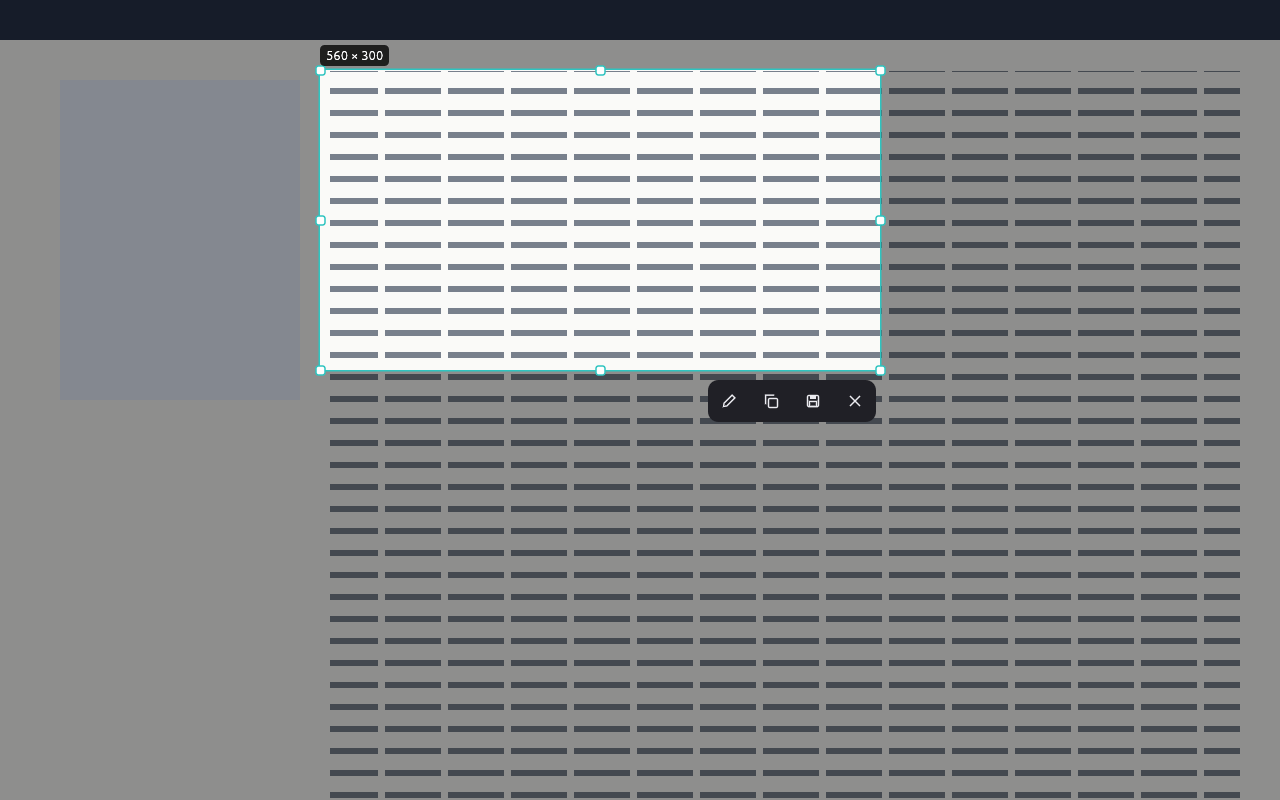
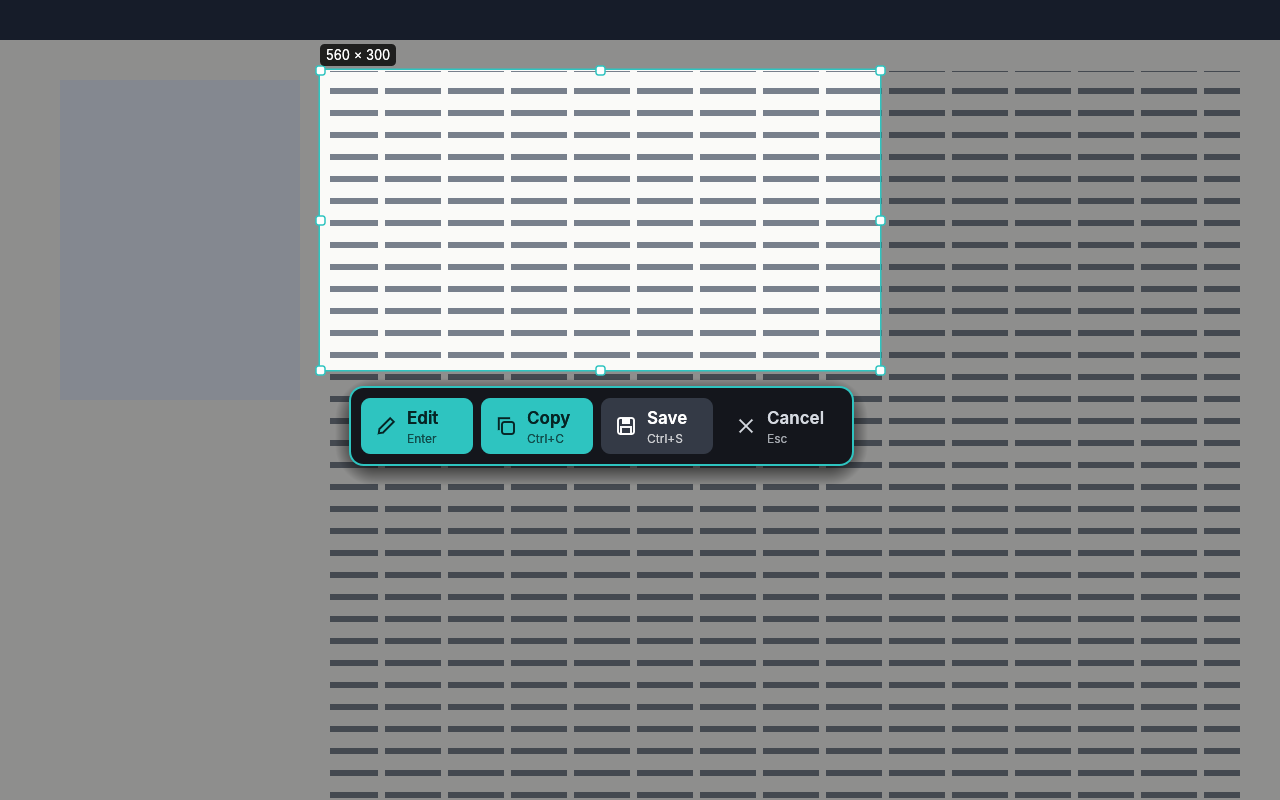
M0.5: a capture bar that can't be missed
The bar after choosing an area was four 30-point icons with no words on a dark grey panel;
their names only showed on hover, so the last step of a capture was easy to overlook.

It now has big buttons with words and their keys, Edit and Copy in the overlay's bright colour,
Save plainer and Cancel quiet, in a solid outlined panel with a shadow, centred under the area
so it stands out on any picture. Edit shows Enter only when Enter opens the editor.

Placing the wider bar with `clamp` would have panicked on a screen narrower than it, losing
the frozen screen, so it uses min and max, with a regression test. New tests also click every
button and check the bar stays big and on screen. docs/images/overlay.png is redrawn.

Changed region(s): [[0.25, 0.4688, 0.6875, 0.625], [0.25, 0.0625, 0.3125, 0.0938]]

diff --git a/crates/ui/src/overlay.rs b/crates/ui/src/overlay.rs
@@ -3,7 +3,7 @@
 //! The capture service takes a picture of each monitor first and shows it full screen, so what
 //! is chosen is exactly what was on screen when the shortcut was pressed (menus and tooltips
 //! included). Drag out an area, or click a window; adjust it with its handles; then pick what to
-//! do with it from the small bar beside it, or press Enter for the default.
+//! do with it from the bar under it, or press Enter for the default.
 //!
 //! One [`Overlay`] is shared by all the monitors' windows: [`Overlay::show_monitor`] draws one
 //! monitor's window and takes its input. Areas are in the pixels of a monitor's picture.
@@ -81,6 +81,8 @@ pub struct Overlay {
     pub purpose: Purpose,
     /// Keep the area adjustable with a bar of actions after it is chosen.
     pub preview: bool,
+    /// Whether Enter opens the editor, so the bar's Edit button may say so.
+    pub enter_edits: bool,
     pub magnifier: bool,
     pub crosshair: bool,
     textures: Vec<Option<egui::TextureHandle>>,
@@ -95,6 +97,62 @@ pub struct Overlay {
 }
 
 const HANDLE: f32 = 9.0;
+/// The overlay's colour: the chosen area's edge and the capture bar's main buttons. Bright, to
+/// be seen on any picture.
+const ACCENT: Color32 = Color32::from_rgb(0x2E, 0xC4, 0xC0);
+/// The height of a button of the capture bar.
+const BAR_BUTTON: f32 = 56.0;
+/// Where a button's words start, after its icon.
+const BAR_TEXT: f32 = 46.0;
+
+/// How much a button of the capture bar stands out.
+#[derive(Clone, Copy, PartialEq)]
+enum Weight {
+    Main,
+    Plain,
+    Quiet,
+}
+
+/// A button of the capture bar.
+struct BarButton {
+    icon: Icon,
+    label: &'static str,
+    /// The key that does the same, if any.
+    keys: &'static str,
+    weight: Weight,
+    /// What it chooses; none cancels.
+    action: Option<Action>,
+}
+
+/// The bar's heavy type, or the plain one where the fonts aren't installed (egui panics on a
+/// family it doesn't know).
+fn heavy(ctx: &egui::Context, size: f32) -> FontId {
+    let family = egui::FontFamily::Name("inter-bold".into());
+    if ctx.fonts(|f| f.definitions().families.contains_key(&family)) { FontId::new(size, family) } else { FontId::proportional(size) }
+}
+
+fn bar_button(ui: &mut Ui, b: &BarButton, width: f32, font: &FontId) -> egui::Response {
+    let (rect, resp) = ui.allocate_exact_size(vec2(width, BAR_BUTTON), Sense::click());
+    resp.widget_info(|| egui::WidgetInfo::labeled(egui::WidgetType::Button, true, b.label));
+    let hot = resp.hovered();
+    let (fill, ink) = match b.weight {
+        Weight::Main => (if hot { Color32::from_rgb(0x62, 0xE3, 0xDF) } else { ACCENT }, Color32::from_rgb(0x06, 0x24, 0x24)),
+        Weight::Plain => (if hot { Color32::from_rgb(0x4A, 0x52, 0x60) } else { Color32::from_rgb(0x34, 0x3A, 0x46) }, Color32::WHITE),
+        Weight::Quiet => (if hot { Color32::from_rgb(0x2C, 0x30, 0x3A) } else { Color32::TRANSPARENT }, Color32::from_rgb(0xD5, 0xD9, 0xE0)),
+    };
+    let p = ui.painter();
+    p.rect_filled(rect, 9.0, fill);
+    let icon = egui::Rect::from_center_size(pos2(rect.min.x + 25.0, rect.center().y), vec2(24.0, 24.0));
+    icons::paint(p, icon, b.icon, ink);
+    let x = rect.min.x + BAR_TEXT;
+    if b.keys.is_empty() {
+        p.text(pos2(x, rect.center().y), Align2::LEFT_CENTER, b.label, font.clone(), ink);
+    } else {
+        p.text(pos2(x, rect.center().y - 9.0), Align2::LEFT_CENTER, b.label, font.clone(), ink);
+        p.text(pos2(x, rect.center().y + 12.0), Align2::LEFT_CENTER, b.keys, FontId::proportional(12.0), ink.gamma_multiply(0.75));
+    }
+    resp.on_hover_cursor(CursorIcon::PointingHand)
+}
 
 /// A desktop rectangle in a monitor's picture's pixels.
 fn desk_to_px(m: &OverlayMonitor, r: IRect) -> Option<Rect> {
@@ -140,6 +198,7 @@ impl Overlay {
             windows,
             purpose,
             preview: true,
+            enter_edits: true,
             magnifier: true,
             crosshair: true,
             textures: (0..n).map(|_| None).collect(),
@@ -267,14 +326,13 @@ impl Overlay {
                         painter.rect_filled(part, 0.0, dim);
                     }
                 }
-                let accent = Color32::from_rgb(0x2E, 0xC4, 0xC0);
                 let chosen = self.sel.is_some();
-                painter.rect_stroke(rs, 0.0, Stroke::new(if chosen { 1.5 } else { 3.0 }, accent), StrokeKind::Outside);
+                painter.rect_stroke(rs, 0.0, Stroke::new(if chosen { 1.5 } else { 3.0 }, ACCENT), StrokeKind::Outside);
                 if chosen && matches!(self.phase, Phase::Adjusting | Phase::Moving { .. } | Phase::Resizing { .. }) {
                     for (x, y) in handles(r) {
                         let hr = egui::Rect::from_center_size(to_screen(x, y), vec2(HANDLE, HANDLE));
                         painter.rect_filled(hr, 2.0, Color32::WHITE);
-                        painter.rect_stroke(hr, 2.0, Stroke::new(1.5, accent), StrokeKind::Middle);
+                        painter.rect_stroke(hr, 2.0, Stroke::new(1.5, ACCENT), StrokeKind::Middle);
                     }
                 }
                 // The size, outside the top left corner (inside if there's no room).
@@ -366,50 +424,73 @@ impl Overlay {
         painter.text(label.center(), Align2::CENTER_CENTER, info, FontId::monospace(12.0), Color32::WHITE);
     }
 
+    /// The bar beside the chosen area. Choosing from it is the capture's last step, so it must
+    /// not be missed on any picture: words on big buttons in a solid, outlined panel, with what
+    /// people come for in the overlay's bright colour.
     fn action_bar(&mut self, ui: &mut Ui, mi: usize, sel: egui::Rect, screen: egui::Rect) {
-        let actions: Vec<(Icon, &str, Action)> = match self.purpose {
-            Purpose::Gif => vec![(Icon::Gif, "Record GIF (Enter)", Action::Start)],
-            Purpose::Scrolling => vec![(Icon::Scrolling, "Start scrolling capture (Enter)", Action::Start)],
+        const GAP: f32 = 8.0;
+        const PAD: i8 = 10;
+        /// Clear of the area's handles.
+        const OFFSET: f32 = 16.0;
+        const COPY_KEYS: &str = if cfg!(target_os = "macos") { "Cmd+C" } else { "Ctrl+C" };
+        const SAVE_KEYS: &str = if cfg!(target_os = "macos") { "Cmd+S" } else { "Ctrl+S" };
+        let button = |icon, label, keys, weight, action| BarButton { icon, label, keys, weight, action };
+        let cancel = button(Icon::Close, "Cancel", "Esc", Weight::Quiet, None);
+        let buttons = match self.purpose {
+            Purpose::Gif => vec![button(Icon::Gif, "Record GIF", "Enter", Weight::Main, Some(Action::Start)), cancel],
+            Purpose::Scrolling => vec![button(Icon::Scrolling, "Start scrolling capture", "Enter", Weight::Main, Some(Action::Start)), cancel],
             _ => vec![
-                (Icon::Edit, "Edit (Enter)", Action::Edit),
-                (Icon::Copy, "Copy (Ctrl+C)", Action::Copy),
-                (Icon::Save, "Save (Ctrl+S)", Action::Save),
+                button(Icon::Edit, "Edit", if self.enter_edits { "Enter" } else { "" }, Weight::Main, Some(Action::Edit)),
+                button(Icon::Copy, "Copy", COPY_KEYS, Weight::Main, Some(Action::Copy)),
+                button(Icon::Save, "Save", SAVE_KEYS, Weight::Plain, Some(Action::Save)),
+                cancel,
             ],
         };
-        let w = 40.0 * (actions.len() as f32 + 1.0) + 12.0;
-        let h = 44.0;
-        let mut at = pos2(sel.max.x - w, sel.max.y + 10.0);
+        let font = heavy(ui.ctx(), 17.0);
+        let widths: Vec<f32> = buttons
+            .iter()
+            .map(|b| {
+                let words = ui.painter().layout_no_wrap(b.label.to_string(), font.clone(), Color32::WHITE).size().x;
+                (BAR_TEXT + words + 18.0).max(112.0)
+            })
+            .collect();
+        let pad = f32::from(PAD);
+        let w = widths.iter().sum::<f32>() + GAP * buttons.len().saturating_sub(1) as f32 + pad * 2.0;
+        let h = BAR_BUTTON + pad * 2.0;
+        // Centred under the area; above it, or inside it, where there's no room.
+        let mut at = pos2(sel.center().x - w / 2.0, sel.max.y + OFFSET);
         if at.y + h > screen.max.y - 4.0 {
-            at.y = (sel.min.y - h - 10.0).max(screen.min.y + 4.0);
-            if at.y + h > sel.min.y {
-                at.y = sel.max.y - h - 10.0;
+            at.y = sel.min.y - h - OFFSET;
+            if at.y < screen.min.y + 4.0 {
+                at.y = sel.max.y - h - OFFSET;
             }
         }
-        at.x = at.x.clamp(screen.min.x + 4.0, screen.max.x - w - 4.0);
-        let bar = egui::Rect::from_min_size(at, vec2(w, h));
-        let mut picked: Option<Action> = None;
-        let mut cancel = false;
-        egui::Area::new(egui::Id::new(("overlay-bar", mi))).fixed_pos(bar.min).order(egui::Order::Foreground).show(ui.ctx(), |ui| {
-            egui::Frame::NONE.fill(Color32::from_rgb(0x20, 0x20, 0x26)).corner_radius(10).inner_margin(egui::Margin::same(6)).show(ui, |ui| {
-                ui.horizontal(|ui| {
-                    ui.style_mut().visuals = egui::Visuals::dark();
-                    for (icon, tip, action) in &actions {
-                        if icons::button(ui, *icon, tip, false, true).clicked() {
-                            picked = Some(*action);
+        // Not `clamp`: it panics on a screen smaller than the bar.
+        at.x = at.x.min(screen.max.x - w - 4.0).max(screen.min.x + 4.0);
+        at.y = at.y.min(screen.max.y - h - 4.0).max(screen.min.y + 4.0);
+        let mut picked: Option<Option<Action>> = None;
+        egui::Area::new(egui::Id::new(("overlay-bar", mi))).fixed_pos(at).order(egui::Order::Foreground).show(ui.ctx(), |ui| {
+            egui::Frame::NONE
+                .fill(Color32::from_rgb(0x14, 0x16, 0x1C))
+                .stroke(Stroke::new(2.0, ACCENT))
+                .corner_radius(14)
+                .inner_margin(egui::Margin::same(PAD))
+                .shadow(egui::Shadow { offset: [0, 6], blur: 24, spread: 2, color: Color32::from_black_alpha(170) })
+                .show(ui, |ui| {
+                    ui.horizontal(|ui| {
+                        ui.spacing_mut().item_spacing.x = GAP;
+                        for (b, width) in buttons.iter().zip(&widths) {
+                            if bar_button(ui, b, *width, &font).clicked() {
+                                picked = Some(b.action);
+                            }
                         }
-                        ui.add_space(4.0);
-                    }
-                    if icons::button(ui, Icon::Close, "Cancel (Esc)", false, true).clicked() {
-                        cancel = true;
-                    }
+                    });
                 });
-            });
         });
-        if let Some(a) = picked {
-            self.choose(a);
-        }
-        if cancel {
-            self.outcome = Outcome::Cancelled;
+        match picked {
+            Some(Some(a)) => self.choose(a),
+            Some(None) => self.outcome = Outcome::Cancelled,
+            None => {}
         }
     }
 

diff --git a/crates/ui/src/tests.rs b/crates/ui/src/tests.rs
@@ -2,6 +2,7 @@
 
 use egui::{Pos2, pos2};
 use egui_kittest::Harness;
+use egui_kittest::kittest::Queryable as _;
 use screengrabcraft_model::{Color, Document, EditorSettings, Kind, Raster, Shape};
 
 use crate::editor::{Editor, Tool};
@@ -168,6 +169,70 @@ fn the_overlay_chooses_an_area() {
             assert!((area.x - 100).abs() <= 1 && (area.y - 100).abs() <= 1 && (i64::from(area.w) - 200).abs() <= 2, "{area:?}");
         }
         other => panic!("{other:?}"),
+    }
+}
+
+/// The overlay on a `w`×`h` screen with `area` chosen, and its bar showing.
+fn overlay_with_bar(
+    w: u32,
+    h: u32,
+    area: screengrabcraft_model::IRect,
+    purpose: crate::overlay::Purpose,
+) -> Harness<'static, crate::overlay::Overlay> {
+    use crate::overlay::{Overlay, OverlayMonitor};
+    use screengrabcraft_model::IRect;
+    let m = OverlayMonitor { rect: IRect::new(0, 0, w, h), picture: Raster::filled(w, h, Color::WHITE).unwrap(), name: "Main".into() };
+    let mut o = Overlay::new(vec![m], Vec::new(), purpose);
+    o.preselect(0, area);
+    let mut h = Harness::builder().with_size(egui::vec2(w as f32, h as f32)).build_ui_state(
+        |ui, o: &mut Overlay| {
+            egui::CentralPanel::default().frame(egui::Frame::NONE).show(ui, |ui| o.show_monitor(ui, 0));
+        },
+        o,
+    );
+    h.run_steps(3);
+    h
+}
+
+#[test]
+fn the_capture_bar_buttons_say_what_they_do_and_do_it() {
+    use crate::overlay::{Action, Outcome, Purpose};
+    use screengrabcraft_model::IRect;
+    for (label, wanted) in [("Edit", Some(Action::Edit)), ("Copy", Some(Action::Copy)), ("Save", Some(Action::Save)), ("Cancel", None)] {
+        let mut h = overlay_with_bar(800, 600, IRect::new(100, 100, 300, 200), Purpose::Picture);
+        h.get_by_label(label).click();
+        h.run_steps(3);
+        match (h.state().outcome(), wanted) {
+            (Outcome::Chosen { action, .. }, Some(a)) => assert_eq!(*action, a, "{label}"),
+            (Outcome::Cancelled, None) => {}
+            (other, _) => panic!("{label}: {other:?}"),
+        }
+    }
+}
+
+#[test]
+fn the_capture_bar_stays_big_and_on_screen() {
+    use crate::overlay::Purpose;
+    use screengrabcraft_model::IRect;
+    // Under the area, over the area's own bottom, and with the whole screen chosen.
+    for area in [IRect::new(100, 100, 300, 200), IRect::new(500, 560, 280, 40), IRect::new(0, 0, 800, 600)] {
+        let h = overlay_with_bar(800, 600, area, Purpose::Picture);
+        for label in ["Edit", "Copy", "Save", "Cancel"] {
+            let r = h.get_by_label(label).rect();
+            assert!(r.height() >= 48.0 && r.width() >= 100.0, "{label} {r:?}");
+            assert!(r.min.x >= 0.0 && r.min.y >= 0.0 && r.max.x <= 800.0 && r.max.y <= 600.0, "{label} {area:?} {r:?}");
+        }
+    }
+}
+
+#[test]
+fn a_screen_narrower_than_the_capture_bar_is_no_trouble() {
+    use crate::overlay::{Outcome, Purpose};
+    use screengrabcraft_model::IRect;
+    // Placing the bar with `clamp` would panic here, losing the frozen screen.
+    for purpose in [Purpose::Picture, Purpose::Gif, Purpose::Scrolling] {
+        let h = overlay_with_bar(200, 90, IRect::new(10, 10, 100, 40), purpose);
+        assert!(matches!(h.state().outcome(), Outcome::Pending));
     }
 }
 

diff --git a/apps/screengrabcraft/src/app.rs b/apps/screengrabcraft/src/app.rs
@@ -423,7 +423,9 @@ impl Service {
                     .map(|w| OverlayWindow { rect: w.rect, title: if w.title.is_empty() { w.app } else { w.title } })
                     .collect();
                 let mut overlay = Overlay::new(om, ow, purpose);
-                overlay.preview = self.settings.after_capture.preview;
+                let after = &self.settings.after_capture;
+                overlay.preview = after.preview;
+                overlay.enter_edits = after.open_editor || (!after.copy && !after.save);
                 overlay.magnifier = self.settings.magnifier;
                 overlay.crosshair = self.settings.crosshair;
                 let opening = graphics::Opening::start();

diff --git a/crates/model/src/settings.rs b/crates/model/src/settings.rs
@@ -369,7 +369,7 @@ impl ImageFormat {
 #[derive(Clone, Copy, Debug, PartialEq, Eq, Serialize, Deserialize)]
 #[serde(default, rename_all = "camelCase")]
 pub struct AfterCapture {
-    /// Keep the capture's handles and its small toolbar on screen, so the area can be adjusted
+    /// Keep the capture's handles and its bar of actions on screen, so the area can be adjusted
     /// and an action picked (Edit, Copy, Save); Enter takes the default.
     pub preview: bool,
     pub open_editor: bool,

diff --git a/crates/ui/examples/shots.rs b/crates/ui/examples/shots.rs
@@ -93,6 +93,7 @@ fn main() -> Result<(), String> {
     let mut o = Overlay::new(vec![m], Vec::new(), Purpose::Picture);
     o.preselect(0, IRect::new(320, 70, 560, 300));
     let mut h = Harness::builder().with_size(vec2(1280.0, 800.0)).build_ui_state(|ui, o: &mut Overlay| o.show_monitor(ui, 0), o);
+    screengrabcraft_ui::install_fonts(&h.ctx);
     h.run_steps(4);
     save(&mut h, &dir.join("overlay-adjusting.png"))?;
     Ok(())

diff --git a/ROADMAP.md b/ROADMAP.md
@@ -2,7 +2,7 @@
 
 **Stage: early alpha** · next: alpha that has been used every day on all three desktop systems
 
-> **Last updated:** 2026-10-14 · **Target:** TechSmith Snagit (capture and editor), cross-platform
+> **Last updated:** 2026-10-31 · **Target:** TechSmith Snagit (capture and editor), cross-platform
 
 ScreenGrabCraft aims at the parts of Snagit people use every day, everywhere, and then goes
 further on openness, privacy and scripting.
@@ -43,5 +43,6 @@ further on openness, privacy and scripting.
 | Date | What landed |
 |---|---|
 | 2026-10-14 | First version: the six crates and four programs, Craft-style icons drawn in Rust (a falcon for the capture service, an owl with a pencil for the editor), packaging and release workflows for Windows, macOS, Linux, FreeBSD and the web |
-| 2026-10-14 | 0.1.1: the capture overlay no longer takes the service down on Windows (DirectX 12 can't make a surface for a window created full screen and always-on-top at once, so it's raised after its first frame); a service that dies while opening a window draws with OpenGL from its next start; graphics errors are logged instead of ending the program |
+| 2026-10-14 | 0.1.1: the capture overlay no longer takes the service down on Windows (DirectX 12 can't make a surface for a window created full screen and always-on-top at once, so it's raised after its first frame); a service that dies while opening a window draws with OpenGL from its next start; graphics errors are logged instead of ending the program |
 | 2026-10-31 | New app icons, flat pictures that read at every size: a selection and a cursor for the capture service, a selection and a pencil for the editor, in place of the engraved falcon and owl. |
+| 2026-10-31 | The capture bar is hard to miss: big buttons with words and their keys, Edit and Copy in the overlay's bright colour, in an outlined panel centred under the area; it no longer panics on a screen narrower than it |
